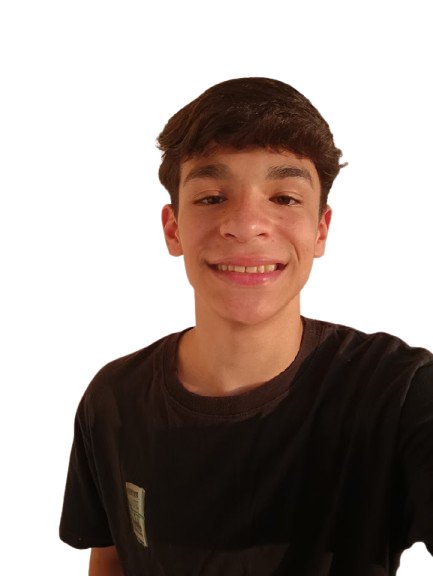
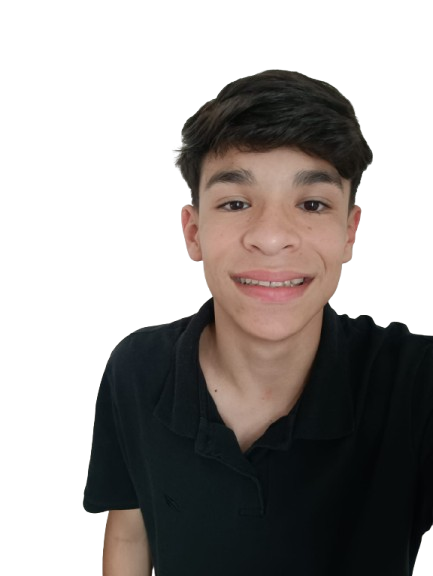
fix: Add and implement the footer for all resolutions.

Changed region(s): [[0.1201, 0.0938, 1.0, 1.0], [0.8707, 0.9062, 1.0, 1.0]]

diff --git a/src/components/Footer.jsx b/src/components/Footer.jsx
@@ -1,0 +1,49 @@
+import styles from '../styles/Footer.module.css';
+
+const socials = [
+  {
+    href: 'https://github.com/pedrohrdev',
+    label: 'GitHub',
+    svg: <svg xmlns="http://www.w3.org/2000/svg" width="20" height="20" viewBox="0 0 24 24" fill="currentColor"><path d="M12 0C5.37 0 0 5.37 0 12c0 5.31 3.435 9.795 8.205 11.385.6.105.825-.255.825-.57 0-.285-.015-1.23-.015-2.235-3.015.555-3.795-.735-4.035-1.41-.135-.345-.72-1.41-1.23-1.695-.42-.225-1.02-.78-.015-.795.945-.015 1.62.87 1.845 1.23 1.08 1.815 2.805 1.305 3.495.99.105-.78.42-1.305.765-1.605-2.67-.3-5.46-1.335-5.46-5.925 0-1.305.465-2.385 1.23-3.225-.12-.3-.54-1.53.12-3.18 0 0 1.005-.315 3.3 1.23.96-.27 1.98-.405 3-.405s2.04.135 3 .405c2.295-1.56 3.3-1.23 3.3-1.23.66 1.65.24 2.88.12 3.18.765.84 1.23 1.905 1.23 3.225 0 4.605-2.805 5.625-5.475 5.925.435.375.81 1.095.81 2.22 0 1.605-.015 2.895-.015 3.3 0 .315.225.69.825.57A12.02 12.02 0 0 0 24 12c0-6.63-5.37-12-12-12z"/></svg>
+  },
+  {
+    href: 'https://www.linkedin.com/in/pedro-rossi-a2b068347/',
+    label: 'LinkedIn',
+    svg: <svg xmlns="http://www.w3.org/2000/svg" width="20" height="20" viewBox="0 0 24 24" fill="currentColor"><path d="M20.447 20.452h-3.554v-5.569c0-1.328-.027-3.037-1.852-3.037-1.853 0-2.136 1.445-2.136 2.939v5.667H9.351V9h3.414v1.561h.046c.477-.9 1.637-1.85 3.37-1.85 3.601 0 4.267 2.37 4.267 5.455v6.286zM5.337 7.433a2.062 2.062 0 0 1-2.063-2.065 2.064 2.064 0 1 1 2.063 2.065zm1.782 13.019H3.555V9h3.564v11.452zM22.225 0H1.771C.792 0 0 .774 0 1.729v20.542C0 23.227.792 24 1.771 24h20.451C23.2 24 24 23.227 24 22.271V1.729C24 .774 23.2 0 22.222 0h.003z"/></svg>
+  },
+  {
+    href: 'https://www.youtube.com/@pedrorossidev',
+    label: 'YouTube',
+    svg: <svg xmlns="http://www.w3.org/2000/svg" width="20" height="20" viewBox="0 0 24 24" fill="currentColor"><path d="M23.498 6.186a3.016 3.016 0 0 0-2.122-2.136C19.505 3.545 12 3.545 12 3.545s-7.505 0-9.377.505A3.017 3.017 0 0 0 .502 6.186C0 8.07 0 12 0 12s0 3.93.502 5.814a3.016 3.016 0 0 0 2.122 2.136c1.871.505 9.376.505 9.376.505s7.505 0 9.377-.505a3.015 3.015 0 0 0 2.122-2.136C24 15.93 24 12 24 12s0-3.93-.502-5.814zM9.545 15.568V8.432L15.818 12l-6.273 3.568z"/></svg>
+  },
+  {
+    href: 'https://www.instagram.com/pedrorossiz/',
+    label: 'Instagram',
+    svg: <svg xmlns="http://www.w3.org/2000/svg" width="20" height="20" viewBox="0 0 24 24" fill="currentColor"><path d="M12 2.163c3.204 0 3.584.012 4.85.07 3.252.148 4.771 1.691 4.919 4.919.058 1.265.069 1.645.069 4.849 0 3.205-.012 3.584-.069 4.849-.149 3.225-1.664 4.771-4.919 4.919-1.266.058-1.644.07-4.85.07-3.204 0-3.584-.012-4.849-.07-3.26-.149-4.771-1.699-4.919-4.92-.058-1.265-.07-1.644-.07-4.849 0-3.204.013-3.583.07-4.849.149-3.227 1.664-4.771 4.919-4.919 1.266-.057 1.645-.069 4.849-.069zM12 0C8.741 0 8.333.014 7.053.072 2.695.272.273 2.69.073 7.052.014 8.333 0 8.741 0 12c0 3.259.014 3.668.072 4.948.2 4.358 2.618 6.78 6.98 6.98C8.333 23.986 8.741 24 12 24c3.259 0 3.668-.014 4.948-.072 4.354-.2 6.782-2.618 6.979-6.98.059-1.28.073-1.689.073-4.948 0-3.259-.014-3.667-.072-4.947-.196-4.354-2.617-6.78-6.979-6.98C15.668.014 15.259 0 12 0zm0 5.838a6.162 6.162 0 1 0 0 12.324 6.162 6.162 0 0 0 0-12.324zM12 16a4 4 0 1 1 0-8 4 4 0 0 1 0 8zm6.406-11.845a1.44 1.44 0 1 0 0 2.881 1.44 1.44 0 0 0 0-2.881z"/></svg>
+  },
+  {
+    href: 'https://wa.me/5544991262009',
+    label: 'WhatsApp',
+    svg: <svg xmlns="http://www.w3.org/2000/svg" width="20" height="20" viewBox="0 0 24 24" fill="currentColor"><path d="M17.472 14.382c-.297-.149-1.758-.867-2.03-.967-.273-.099-.471-.148-.67.15-.197.297-.767.966-.94 1.164-.173.199-.347.223-.644.075-.297-.15-1.255-.463-2.39-1.475-.883-.788-1.48-1.761-1.653-2.059-.173-.297-.018-.458.13-.606.134-.133.298-.347.446-.52.149-.174.198-.298.298-.497.099-.198.05-.371-.025-.52-.075-.149-.669-1.612-.916-2.207-.242-.579-.487-.5-.669-.51-.173-.008-.371-.01-.57-.01-.198 0-.52.074-.792.372-.272.297-1.04 1.016-1.04 2.479 0 1.462 1.065 2.875 1.213 3.074.149.198 2.096 3.2 5.077 4.487.709.306 1.262.489 1.694.625.712.227 1.36.195 1.871.118.571-.085 1.758-.719 2.006-1.413.248-.694.248-1.289.173-1.413-.074-.124-.272-.198-.57-.347m-5.421 7.403h-.004a9.87 9.87 0 0 1-5.031-1.378l-.361-.214-3.741.982.998-3.648-.235-.374a9.86 9.86 0 0 1-1.51-5.26c.001-5.45 4.436-9.884 9.888-9.884 2.64 0 5.122 1.03 6.988 2.898a9.825 9.825 0 0 1 2.893 6.994c-.003 5.45-4.437 9.884-9.885 9.884m8.413-18.297A11.815 11.815 0 0 0 12.05 0C5.495 0 .16 5.335.157 11.892c0 2.096.547 4.142 1.588 5.945L.057 24l6.305-1.654a11.882 11.882 0 0 0 5.683 1.448h.005c6.554 0 11.89-5.335 11.893-11.893a11.821 11.821 0 0 0-3.48-8.413z"/></svg>
+  },
+];
+
+function Footer() {
+  return (
+    <footer className={styles.footer}>
+      <div className={styles.footerInner}>
+        <span className={styles.logo}>P.</span>
+        <div className={styles.socials}>
+          {socials.map(({ svg, href, label }) => (
+            <a key={label} href={href} target="_blank" rel="noopener noreferrer" aria-label={label} className={styles.socialLink}>
+              {svg}
+            </a>
+          ))}
+        </div>
+        <p className={styles.copy}>© {new Date().getFullYear()} Pedro Ross — Todos os direitos reservados.</p>
+      </div>
+    </footer>
+  );
+}
+
+export default Footer;

diff --git a/src/components/About.jsx b/src/components/About.jsx
@@ -1,54 +1,36 @@
 import styles from '../styles/About.module.css';
 
 function About() {
-
     return (
-
         <section className={styles.aboutContainer} id='about'>
             <div className={styles.aboutContent}>
 
-                <h2>SOBRE MIM</h2>
-
-                <h3 className={styles.aboutHeadline}>
-                    Código que <span className={styles.highlight}>funciona.</span><br />
-                    Design que impressiona.
-                </h3>
-
-                <p className={styles.aboutDescription}>
-                    Desenvolvedor fullstack apaixonado por criar produtos
-                    digitais que <strong>resolvem problemas reais</strong>. Trabalho desde o banco de
-                    dados até a interface final.
-                </p>
-
-                <p className={styles.aboutDescription}>
-                    Me preocupo com cada detalhe:
-                    animações suaves, código limpo e experiências que as pessoas <strong>querem usar</strong>.
-                </p>
-
-                <div className={styles.aboutInfo}>
-                    <div className={styles.infoXp}>
-                        <span>1.5+</span>
-                        <p>ANOS DE EXP.</p>
-                    </div>
-                    <div className={styles.infoProjects}>
-                        <span>5</span>
-                        <p>PROJETOS ENTREGUES</p>
-                    </div>
-                    <div className={styles.infoClients}>
-                        <span>1</span>
-                        <p>CLIENTE FELIZ</p>
-                    </div>
-                    <div className={styles.infoTerere}>
-                        <span>∞</span>
-                        <p>TÉRES TOMADOS</p>
+                <div className={styles.aboutText}>
+                    <h2>SOBRE MIM</h2>
+                    <h3 className={styles.aboutHeadline}>
+                        Código que <span className={styles.highlight}>funciona.</span><br />
+                        Design que impressiona.
+                    </h3>
+                    <p className={styles.aboutDescription}>
+                        Desenvolvedor fullstack apaixonado por criar produtos
+                        digitais que <strong>resolvem problemas reais</strong>. Trabalho desde o banco de
+                        dados até a interface final.
+                    </p>
+                    <p className={styles.aboutDescription}>
+                        Me preocupo com cada detalhe:
+                        animações suaves, código limpo e experiências que as pessoas <strong>querem usar</strong>.
+                    </p>
+                    <div className={styles.aboutInfo}>
+                        <div><span>1.5+</span><p>ANOS DE EXP.</p></div>
+                        <div><span>5</span><p>PROJETOS ENTREGUES</p></div>
+                        <div><span>1</span><p>CLIENTE FELIZ</p></div>
+                        <div><span>∞</span><p>TÉRES TOMADOS</p></div>
                     </div>
                 </div>
 
             </div>
         </section>
-
-    )
-
+    );
 }
 
 export default About;

diff --git a/src/styles/About.module.css b/src/styles/About.module.css
@@ -1,21 +1,4 @@
-.prankCoffe {
-    font-size: 1.5rem;
-    position: relative;
-    display: inline-block;
-}
-.prankCoffe::after {
-    content: '';
-    position: absolute;
-    top: 40%;
-    left: 10%;
-    width: 100%;
-    height: 2px;
-    background: #e74c3c; /* cor vermelha pro risco, pode mudar */
-    transform: rotate(-35deg);
-    opacity: 0.9;
-
-}
-
+/* ── Container principal ── */
 .aboutContainer {
   margin-top: 4rem;
   min-height: 100vh;
@@ -23,14 +6,26 @@
   align-items: center;
   justify-content: center;
   padding: 80px 24px;
+  overflow: hidden;
 }
 
+/* ── Wrapper interno ── */
 .aboutContent {
-  max-width: 960px;
+  max-width: 1100px;
   width: 100%;
+  display: flex;
+  flex-direction: column;
+  align-items: center;
+  gap: 48px;
 }
 
-.aboutContent h2 {
+/* ── Bloco de texto ── */
+.aboutText {
+  width: 100%;
+  order: 2;
+}
+
+.aboutText h2 {
   font-size: 13px;
   font-weight: 400;
   letter-spacing: 0.15em;
@@ -40,14 +35,14 @@
 }
 
 .aboutHeadline {
-  font-size: clamp(40px, 7vw, 72px);
+  font-size: clamp(32px, 6vw, 67px);
   font-weight: 800;
   line-height: 1.05;
   color: #f0ede6;
   margin: 0 0 32px 0;
 }
 
-.aboutHeadline .highlight {
+.highlight {
   color: var(--accent);
 }
 
@@ -64,26 +59,27 @@
   font-weight: 600;
 }
 
+/* ── Grid de stats ── */
 .aboutInfo {
-      background: rgba(255, 255, 255, 0.055);
+  background: rgba(255, 255, 255, 0.055);
   backdrop-filter: blur(16px);
   display: grid;
   grid-template-columns: 1fr 1fr;
   gap: 2px;
   margin-top: 48px;
-  max-width: 480px;
+  max-width: 360px;
 }
 
 .aboutInfo > div {
   border: 1px solid #6a746a;
-  padding: 28px 24px;
+  padding: 24px 20px;
   display: flex;
   flex-direction: column;
   gap: 8px;
 }
 
 .aboutInfo > div span:first-child {
-  font-size: 42px;
+  font-size: 38px;
   font-weight: 800;
   color: var(--accent);
   line-height: 1;
@@ -98,37 +94,12 @@
   margin: 0;
 }
 
-.prankCoffe {
-  font-size: 42px !important;
-  font-weight: 800;
-  color: #c8f135 !important;
-  line-height: 1;
-  font-style: italic;
+
+/* ── Breakpoints ── */
+@media (min-width: 480px) {
+  .aboutContainer { padding: 80px 48px; }
 }
 
-.aboutMePhoto {
-  display: none;
-}
-
-@media(min-width: 374px) {
-  .aboutContainer {
-    padding: 80px 48px;
-    text-align: left;
-  }
-}
-
-@media(min-width: 767px) {
-
-  .aboutContainer {
-    padding: 80px 84px;
-  }
-
-}
-
-@media(min-width: 1024px) {
-  .aboutHeadline {
-    font-size: 67px;
-
-  }
-
+@media (min-width: 768px) {
+  .aboutContainer { padding: 80px 64px; }
 }

diff --git a/src/styles/Footer.module.css b/src/styles/Footer.module.css
@@ -1,0 +1,44 @@
+.footer {
+  border-top: 1px solid rgba(255, 255, 255, 0.07);
+  padding: 48px 24px 32px;
+}
+
+.footerInner {
+  max-width: 1100px;
+  margin: 0 auto;
+  display: flex;
+  flex-direction: column;
+  align-items: center;
+  gap: 24px;
+}
+
+.logo {
+  font-size: 28px;
+  font-weight: 800;
+  color: #f0ede6;
+  letter-spacing: -0.02em;
+}
+
+.socials {
+  display: flex;
+  gap: 16px;
+}
+
+.socialLink {
+  color: #8a9a8a;
+  transition: color 0.2s ease, transform 0.2s ease;
+  display: flex;
+  align-items: center;
+}
+
+.socialLink:hover {
+  color: var(--accent);
+  transform: translateY(-2px);
+}
+
+.copy {
+  font-size: 12px;
+  color: #4a5a4a;
+  letter-spacing: 0.05em;
+  margin: 0;
+}

diff --git a/src/pages/Home/Home.jsx b/src/pages/Home/Home.jsx
@@ -4,6 +4,7 @@ import Marquee from '../../components/Marquee';
 import About from '../../components/About';
 import Skills from '../../components/Skills';
 import Contato from '../../components/Contato';
+import Footer from '../../components/Footer';
 
 function Home() {
   return (
@@ -22,6 +23,8 @@ function Home() {
         <Skills />
 
         <Contato />
+
+        <Footer />
 
       </main>
 
